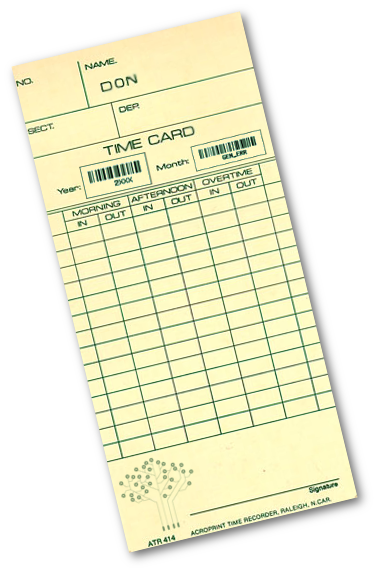
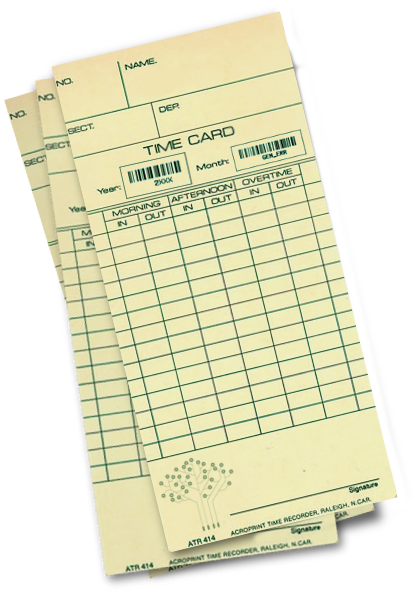
Removed Don's name from timecards, fixed scaling of images based on resolution.

diff --git a/static/interview.js b/static/interview.js
@@ -28,11 +28,14 @@ function setup() {
     textFont(handy);
 	fill('rgba(0,0,0,0.75)');
 	noStroke();
-    //image(imgDC, .02*windowWidth, .05*windowHeight, windowWidth*.1, windowHeight*.2);
     image(folder, .15*windowWidth, .01*windowHeight);
     image(bg_image, .2*windowWidth, .2*windowHeight, .5*windowWidth, .8*windowHeight);
-    image(card, .02*windowWidth, .25*windowHeight);
-    image(coffee_notes, .6*windowWidth, .09*windowHeight);
+	cardWidth = windowWidth/4.6;
+	cardHeight = card.height/(card.width/(cardWidth));
+	image(card, .02*windowWidth, .25*windowHeight, cardWidth, cardHeight);
+	coffeeWidth = windowWidth/4.85;
+	coffeeHeight = coffee_notes.height/(coffee_notes.width/(coffeeWidth));
+    image(coffee_notes, .7*windowWidth, .09*windowHeight, coffeeWidth, coffeeHeight);
     textStyle(BOLD);
     textSize(42);
     text(user_data.name,.25*windowWidth, .27*windowHeight );
